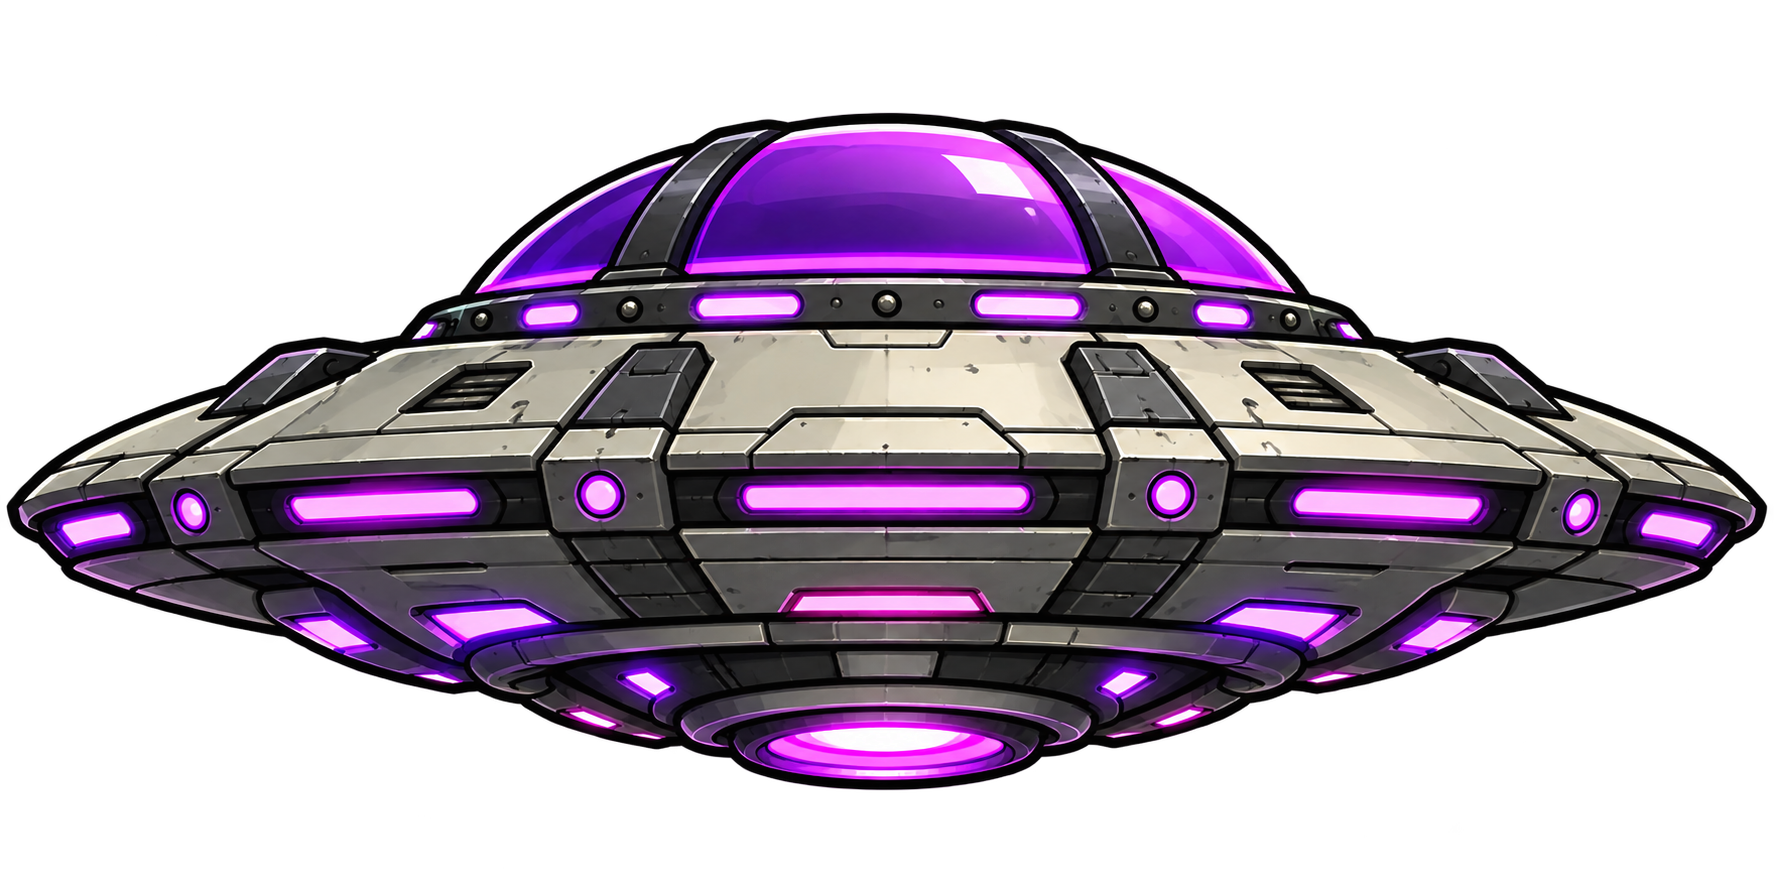
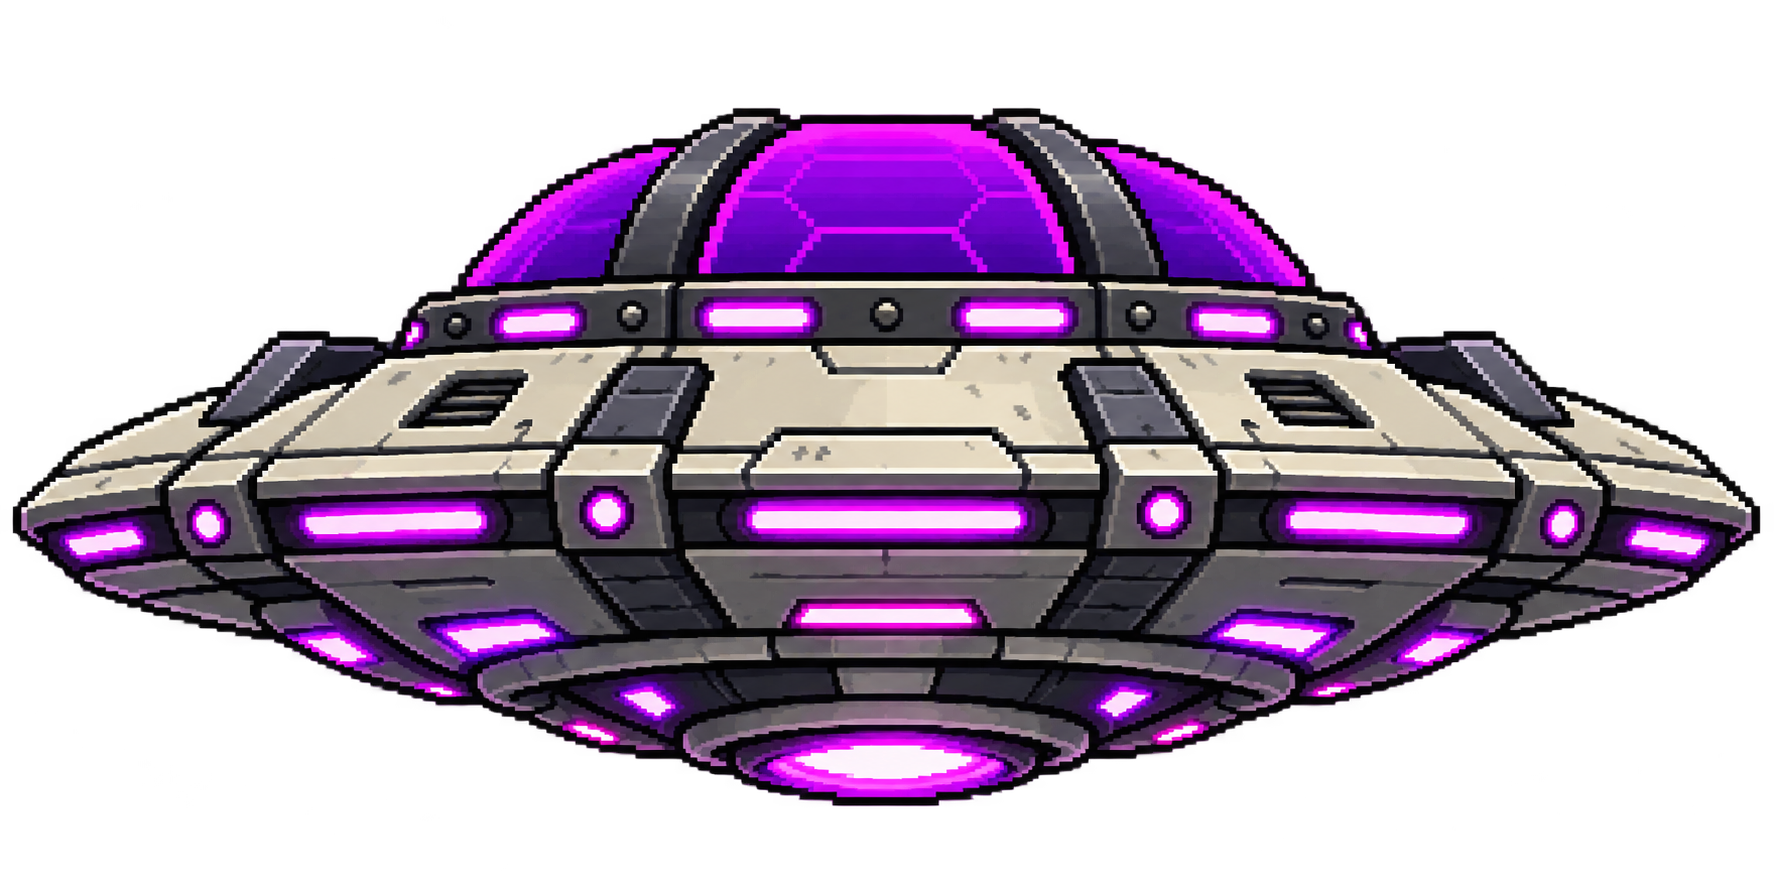
Match player ship heights; take in revised UFO art
- ShipDefinition gains visual_scale and visual_offset_y; apply_ship
  scales and re-centers the Ship sprite so all three ships show at the
  same visible height (about 135 px on screen): AM62Px 1.0, i.MX95
  0.909, IQ2390 0.935. Hardpoints moved with the art; ship select
  preview and cards use the same values. Stats unchanged.
- Revised UFO master (hex-pattern dome) replaces the old one, which is
  kept in art_archive/art_old; game copy regenerated at 1024x512.
  Outline and emitter moved under 3 px, so collision and beam anchor
  are unchanged.

Claude-Session: https://claude.ai/code/session_016ff9rXCwApsNs8eo3CZGGd

diff --git a/docs/ART_SWAP_TRACKER.md b/docs/ART_SWAP_TRACKER.md
@@ -76,16 +76,16 @@ not yet wired), `swapped` (final art in place, marker removed).
 | Feature | Where to swap | Current stand-in | Art needed | Status |
 |---|---|---|---|---|
 | (rows are appended by each implementation phase) | | | | |
-| Ship: TI SoM - AM62Px (balanced) | `data/ships/phycore_am62x.tres` → `texture` (id `ti_am62px`, tint white) | — | `sprites/player_ship_body1.png` (1024x1536, drawn at the Player's Ship scale 0.125 = 128x192 px; the art fills the canvas, ~127x169 px visible vs ~112x140 for body2) | swapped |
-| Ship: i.MX SoM - i.MX95 (heavy) | `data/ships/phycore_imx8mp.tres` → `texture` (id `nxp_imx95`, tint white) | — | `sprites/player_ship_body3.png` (1024x1536 at 0.125, ~126x186 px visible) | swapped |
-| Ship: Qualcomm SoM - IQ2390 (light) | `data/ships/phycore_imx93.tres` → `texture` (id `qualcomm_iq2390`, tint white) | — | `sprites/player_ship_body4.png` (1024x1536 at 0.125, ~127x181 px visible) | swapped |
+| Ship: TI SoM - AM62Px (balanced) | `data/ships/phycore_am62x.tres` → `texture` (id `ti_am62px`, tint white) | — | `sprites/player_ship_body1.png` (1024x1536, drawn at the Player's Ship scale 0.125 = 128x192 px; the art fills the canvas, ~127x169 px visible vs ~112x140 for body2). Reference size for all ships: `visual_scale` 1.0, `visual_offset_y` 0, visible y -95.1..73.5 local (~135 px tall on screen at the Player's 0.8); hardpoints nose -89, wing guns (±38, -20), engines 67, side thrusters 22 | swapped |
+| Ship: i.MX SoM - i.MX95 (heavy) | `data/ships/phycore_imx8mp.tres` → `texture` (id `nxp_imx95`, tint white) | — | `sprites/player_ship_body3.png` (1024x1536 at 0.125, ~126x186 px visible unscaled) drawn at `visual_scale` 0.909, `visual_offset_y` -8.88: ~115x169 local px visible, same top/bottom (y -95.1..73.5) as the AM62Px; hardpoints nose -89, wing guns (±34.5, -44.3), engines 68.4, side thrusters 14.8 | swapped |
+| Ship: Qualcomm SoM - IQ2390 (light) | `data/ships/phycore_imx93.tres` → `texture` (id `qualcomm_iq2390`, tint white) | — | `sprites/player_ship_body4.png` (1024x1536 at 0.125, ~127x181 px visible unscaled) drawn at `visual_scale` 0.9349, `visual_offset_y` -5.96: ~119x169 local px visible, same top/bottom (y -95.1..73.5) as the AM62Px; hardpoints nose -89, wing guns (±35.5, -20.0), engines 67.9, side thrusters 18.3 | swapped |
 | Drone swarm enemy | `scenes/obstacles/drone_obstacle.tscn` Sprite2D `texture` / `scale` + CircleShape2D (note in `scripts/obstacles/drone_obstacle.gd`) | — | `sprites/drone_1.png` (512x512, master 1254x1254) at Sprite2D scale 0.0784, ~40 px on screen, collision circle r 15 at (0, -2); static (optional later: 2-4 frame rotor loop as hframes) | swapped |
 | Blimp mini-boss | `scenes/obstacles/blimp_obstacle.tscn` Sprite2D `texture` / `rotation` / `scale` + CapsuleShape2D + GunPoint1-3 (note in `scripts/obstacles/blimp_obstacle.gd`) | — | `sprites/zeppelin_1.png` (1024x393, the zeppelin cut from master `zeppelin_weapon_combined.png`; top-down, nose drawn to the right) on a Sprite2D rotated 90 deg (nose down) at scale 0.24, ~94x246 px visible (1.33x the first fit, so a ship centered under it lands all three tier-2 shots), untinted; capsule r 40 / height 229 at (0, 5); GunPoint1/3 on the forward side pods (x -+41, y 28), GunPoint2 on the gondola cockpit (0, 40). Unused so far: the sheet's six weapon modules; optional later: propeller loop, damaged variant | swapped |
-| UFO saucer | `scenes/obstacles/ufo_obstacle.tscn` Sprite2D `texture` / `scale` + hull CapsuleShape2D (note in `scripts/obstacles/ufo_obstacle.gd`) | — | `sprites/ufo_1.png` (1024x512, master 1774x887) at Sprite2D scale 0.2079, ~213x106 canvas (~210x81 px visible), level, untinted; hull capsule 200x52 at y+6 | swapped |
+| UFO saucer | `scenes/obstacles/ufo_obstacle.tscn` Sprite2D `texture` / `scale` + hull CapsuleShape2D (note in `scripts/obstacles/ufo_obstacle.gd`) | — | `sprites/ufo_1.png` (1024x512, master 1774x887; revised art with a hex-pattern dome, first version kept in `art_archive/art_old/ufo_1_v1.png`) at Sprite2D scale 0.2079, ~213x106 canvas (~210x84 px visible), level, untinted; hull capsule 200x52 at y+6; emitter glow centered at y ~38 (beam starts behind the hull at y 30, unchanged) | swapped |
 | UFO tractor beam | `scenes/obstacles/ufo_obstacle.tscn` `Beam/Field` ColorRect + `shaders/ufo_beam.gdshader` (note in `scripts/obstacles/ufo_obstacle.gd`; see "Beam look") | — | Procedural shader, no texture: soft magenta-violet cone from the emitter (y 30, 80 px wide, behind the hull) to ~160 px wide at y 530, bright core and emitter glow, curved rings scrolling up toward the saucer, fading out by y 550; fades in/out over 0.3 s, brightens with faster rings while the player is caught (`capture`). `Beam/BeamArea` polygon unchanged | code-only (shader) |
 | Splitting asteroid | `scenes/obstacles/asteroid_obstacle.tscn` Sprite2D `texture` (marker in `scripts/obstacles/asteroid_obstacle.gd`) | `sprites/meteor_1.png`, same texture for all three sizes (scaled 1.6/1.0/0.6) | Rocky asteroid without flame trail, transparent PNG, roughly round, ~50 px at size 2 (author at 200x200); ideally 3 variants (large/medium/small or cracked stages) so pieces read as fragments; spins in code, so no rotation frames needed | placeholder |
 | Space mine | `scenes/obstacles/mine_obstacle.tscn` Sprite2D `texture` / `scale` + CircleShape2D; light pulse in `scripts/obstacles/mine_obstacle.gd` `_set_light()` (sprite `modulate` toward `idle_light_color` / `armed_light_color`) | — | `sprites/mine_1.png` (512x512, master 1254x1254) at Sprite2D scale 0.103, ~53 px on screen incl. spikes, collision circle r 16 (body only) | swapped |
-| Docking station (victory) | `scenes/effects/docking_station.tscn` Sprite2D `Hull` `texture` / `scale` + `DockPoint`; `PAD_RECT` / `landing_scale` in `scripts/effects/docking_station.gd` | — | `sprites/space_station_1.png` (1024x341, master 2172x724; top-down, solar/cargo modules left and right, central landing pad with an orange crosshair) on `Hull` at scale 0.6641 = 680x226 px on screen, `texture_filter = 4`; resting at y 260 (on screen y 147..373). Pad (dark rectangle, texture px 404..621 x 111..231) = station-local rect (-71.7, -39.5) 144x80, on screen x 288..432, y 220..300; `DockPoint` (0, 1) on the crosshair. The ship lands on the pad: `fly_to` shrinks it from 0.8 to `landing_scale` 0.36 (largest ship ~46x67 px, inside the pad). Optional later: animated pad lights (2-4 frames) | swapped |
+| Docking station (victory) | `scenes/effects/docking_station.tscn` Sprite2D `Hull` `texture` / `scale` + `DockPoint`; `PAD_RECT` / `landing_scale` in `scripts/effects/docking_station.gd` | — | `sprites/space_station_1.png` (1024x341, master 2172x724; top-down, solar/cargo modules left and right, central landing pad with an orange crosshair) on `Hull` at scale 0.6641 = 680x226 px on screen, `texture_filter = 4`; resting at y 260 (on screen y 147..373). Pad (dark rectangle, texture px 404..621 x 111..231) = station-local rect (-71.7, -39.5) 144x80, on screen x 288..432, y 220..300; `DockPoint` (0, 1) on the crosshair. The ship lands on the pad: `fly_to` shrinks it from 0.8 to `landing_scale` 0.36 (every ship ~46x61 px after `visual_scale`, inside the pad). Optional later: animated pad lights (2-4 frames) | swapped |
 | Docking touchdown (victory) | `scripts/effects/docking_station.gd` `_on_touchdown()` (`TouchdownRing` Line2D) | Clamps dropped: the station art has a landing pad, so the ship lands instead of docking into a port. Touchdown = green Line2D ring growing from the crosshair (r 10 → 90 px) and fading out over 0.4 s, under the ship | None (code-only); optional later: animated pad lights, 2-4 frames, as a Sprite2D with hframes over the pad | code-only |
 | Docking flash + "DOCKED" label | `scripts/effects/docking_station.gd` (`DockFlash`, `DockedLabel`) | White Polygon2D flash over the landing pad (0.2 s), gold m5x7 "DOCKED" label pop under the station | None (code-only effect) | code-only |
 | Score / graze popups, combo HUD, screen shake | `scenes/effects/juice_score_popup.tscn`, `scenes/ui/game_hud_ui.tscn` `ComboBox`, `scripts/effects/juice_camera_shake.gd` | m5x7 text with outline, ProgressBar, camera offset | None (code-only effects) | code-only |
@@ -93,7 +93,7 @@ not yet wired), `swapped` (final art in place, marker removed).
 | Health cell pickup | `scenes/collectibles/health_pickup.tscn` `AnimatedSprite2D` `sprite_frames` / `scale` (note in `scripts/collectibles/health_pickup.gd`) | Polygon2D dark rounded square (56 px) with a green Line2D border and a green Polygon2D cross | `sprites/health_pickup_sheet.png` (1280x256: 5 cells of 256x256, each centered on the red cross; repacked from the 2172x724 master `health_pickup_sprite_sheet.png`, 576 master px per cell) via `sprites/health_pickup.tres`, looping 0-1-2-3-4 at 8 fps; the canister "breathes" (1.27x wider in frame 2, intended, not normalized). Scale 0.3675 (25% smaller than the first 0.49 pass, user request): canister ~42 px wide in frames 0/4, ~54 px in frame 2, sparkles/base up to ~75x84 px. No spin (`spin = false`); collision circle shrunk with the art, r 28 -> 21 (42 px, the smallest canister width). Sheet imported with mipmaps like the shield sheet | swapped |
 | Shield bubble pickup | `scenes/collectibles/shield_pickup.tscn` `AnimatedSprite2D` `sprite_frames` / `scale` (note in `scripts/collectibles/shield_pickup.gd`) | — | `sprites/shield_icon_sheet.png` (1280x256: 5 cells of 256x256, the hex sphere centered and the same size in every cell, rim radius ~90 px; repacked from the 2172x724 glow-pulse master `shield_icon_sprite_sheet.png`, 512 master px per cell) via `sprites/shield_icon.tres`, looping 0-1-2-3-4 at 8 fps; scale 0.3 = ~55 px sphere on screen (glow up to ~72 px). No shader material (the art has its own glow), no spin (`spin = false`); collision circle r 28 unchanged | swapped |
 | Screen-clear bomb pickup | `scenes/collectibles/bomb_pickup.tscn` Sprite2D `texture` / `scale` / `position` (note in `scripts/collectibles/bomb_pickup.gd`) | — | `sprites/bomb_collectible_1.png` (560x512, master 1312x1199) at Sprite2D scale 0.1, ~56x51 px canvas, offset (6, -6) so the round body sits on the pickup center / spin axis; collision circle r 28 unchanged (optional later: 2-frame spark flicker as hframes) | swapped |
-| Player shield ring | `scenes/player.tscn` `ShieldRing/Dome` Sprite2D (note in `scripts/main_level/player.gd`); code drives ShieldRing's scale / modulate / visibility (pulse, hit pop, last-2 s blink) | — | `sprites/shield_dome_1.png` (634x634 full sphere, master 1254x1254) at scale 0.5258, position (0, -6) (within 5 local px of each ship's art center): sphere radius 126 local px, ~10 px outside the largest ship's farthest corner (and still outside at the -5% pulse); ~204 px sphere on screen at the Player's 0.8, halo to ~251 px. `shield_bubble.gdshader` with `interior_strength` 0.55 (faded hex pattern), cyan-white rim ring + halo (see "Shield look"). Old half-dome art kept in `art_archive/art_old/shield_dome_half.png` | swapped |
+| Player shield ring | `scenes/player.tscn` `ShieldRing/Dome` Sprite2D (note in `scripts/main_level/player.gd`); code drives ShieldRing's scale / modulate / visibility (pulse, hit pop, last-2 s blink) | — | `sprites/shield_dome_1.png` (634x634 full sphere, master 1254x1254) at scale 0.5258, position (0, -6) (within 5 local px of the ships' common visible center, y -10.8): sphere radius 126 local px, ~17 px outside the farthest corner of the ships' visible bounding box (~10 px at the -5% pulse); ~204 px sphere on screen at the Player's 0.8, halo to ~251 px. `shield_bubble.gdshader` with `interior_strength` 0.55 (faded hex pattern), cyan-white rim ring + halo (see "Shield look"). Old half-dome art kept in `art_archive/art_old/shield_dome_half.png` | swapped |
 | Bomb screen flash, shield HUD indicator | `scripts/main_level.gd` `_start_bomb_flash()` (white ColorRect under `UI`, 0.25 s), `scenes/ui/game_hud_ui.tscn` `ShieldBox` | ColorRect fade, m5x7 "SHIELD" label + ProgressBar | None (code-only effects) | code-only |
 | Enemy hit flash + scale punch | `shaders/hit_flash.gdshader` (assigned per instance in `scripts/obstacles/obstacle.gd` `_setup_hit_flash()`; driven by `_on_hit()` / `_update_hit_feedback()`) | White mix on the sprite (0.08 s) and a 1.12x scale punch (0.1 s) | None (code-only effect; works with any swapped enemy texture) | code-only |
 | Enemy hit sparks | `scenes/effects/hit_spark.tscn` CPUParticles2D (marker in `scripts/effects/hit_spark.gd`) | 7 untextured white -> yellow squares, 0.25 s one-shot burst | 2-3 frame spark sheet, ~64x64 per frame, transparent PNG, white/yellow star; set as the particles `texture` with a CanvasItemMaterial using `particles_animation` (like `obstacle_explosion.tscn`) | placeholder |
